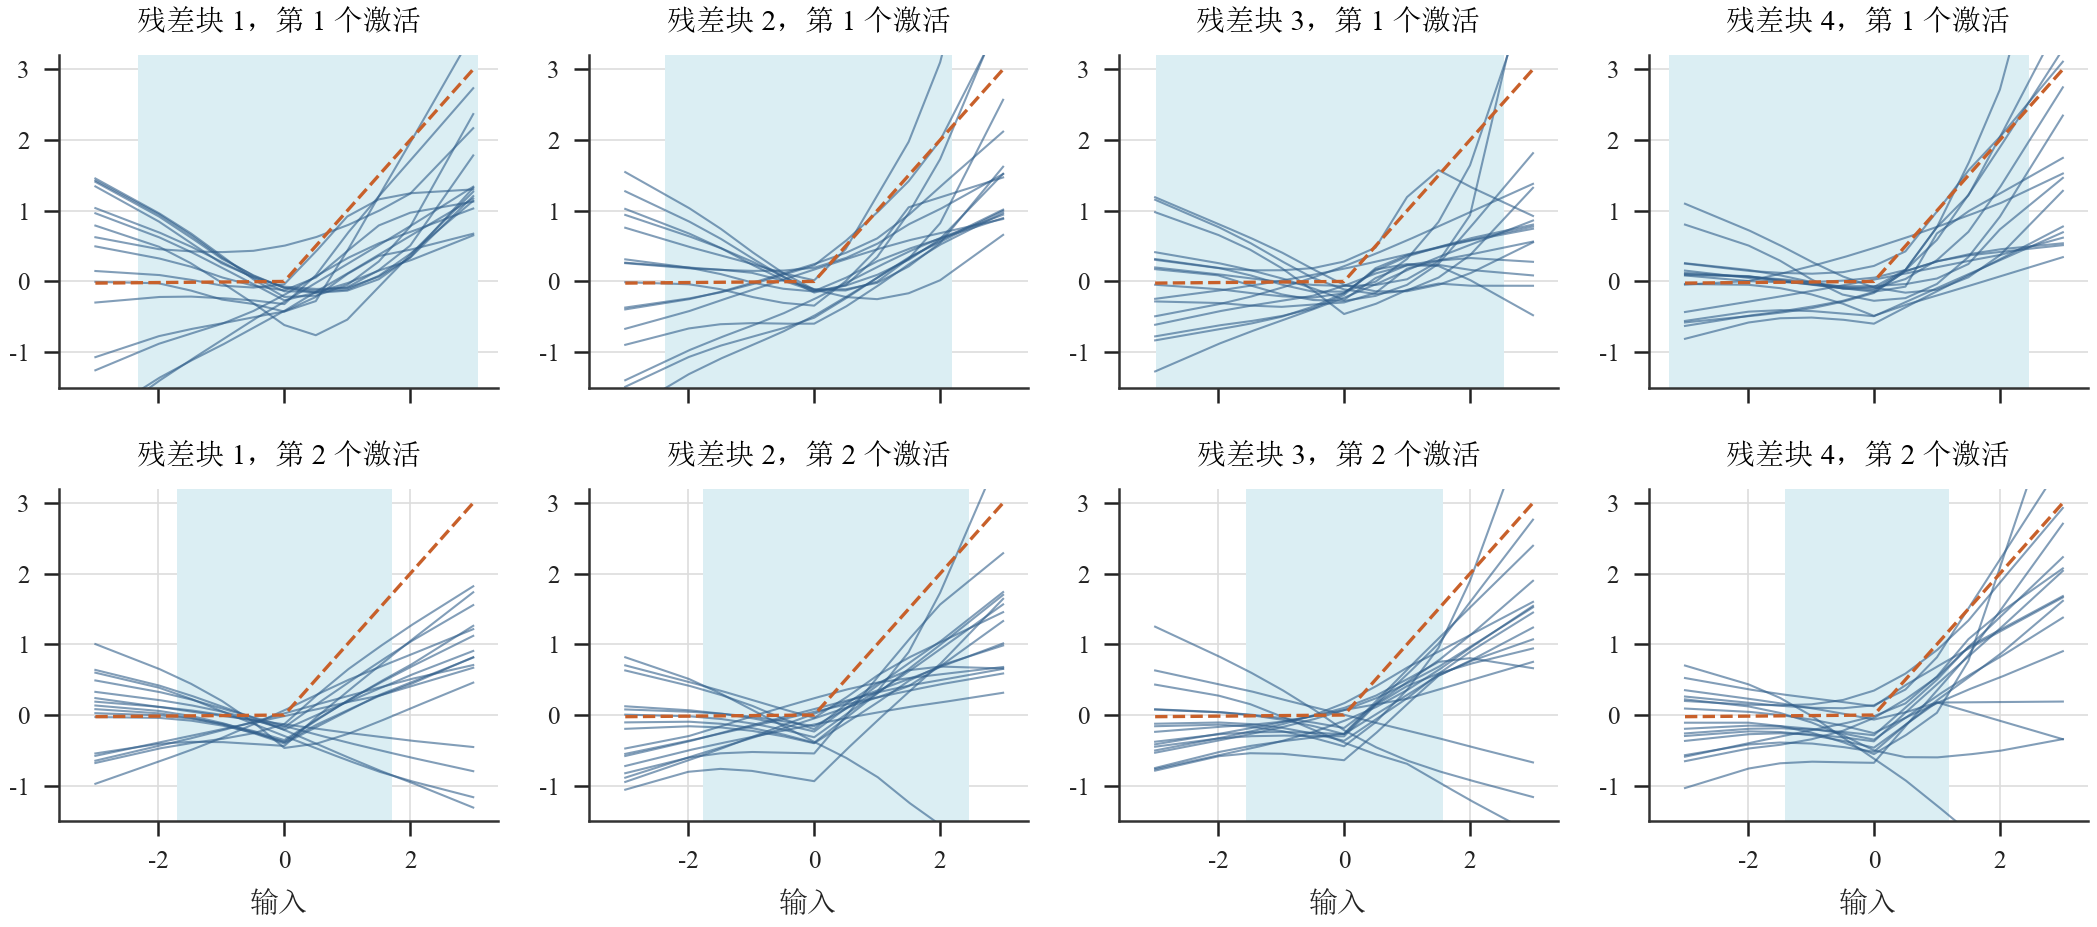
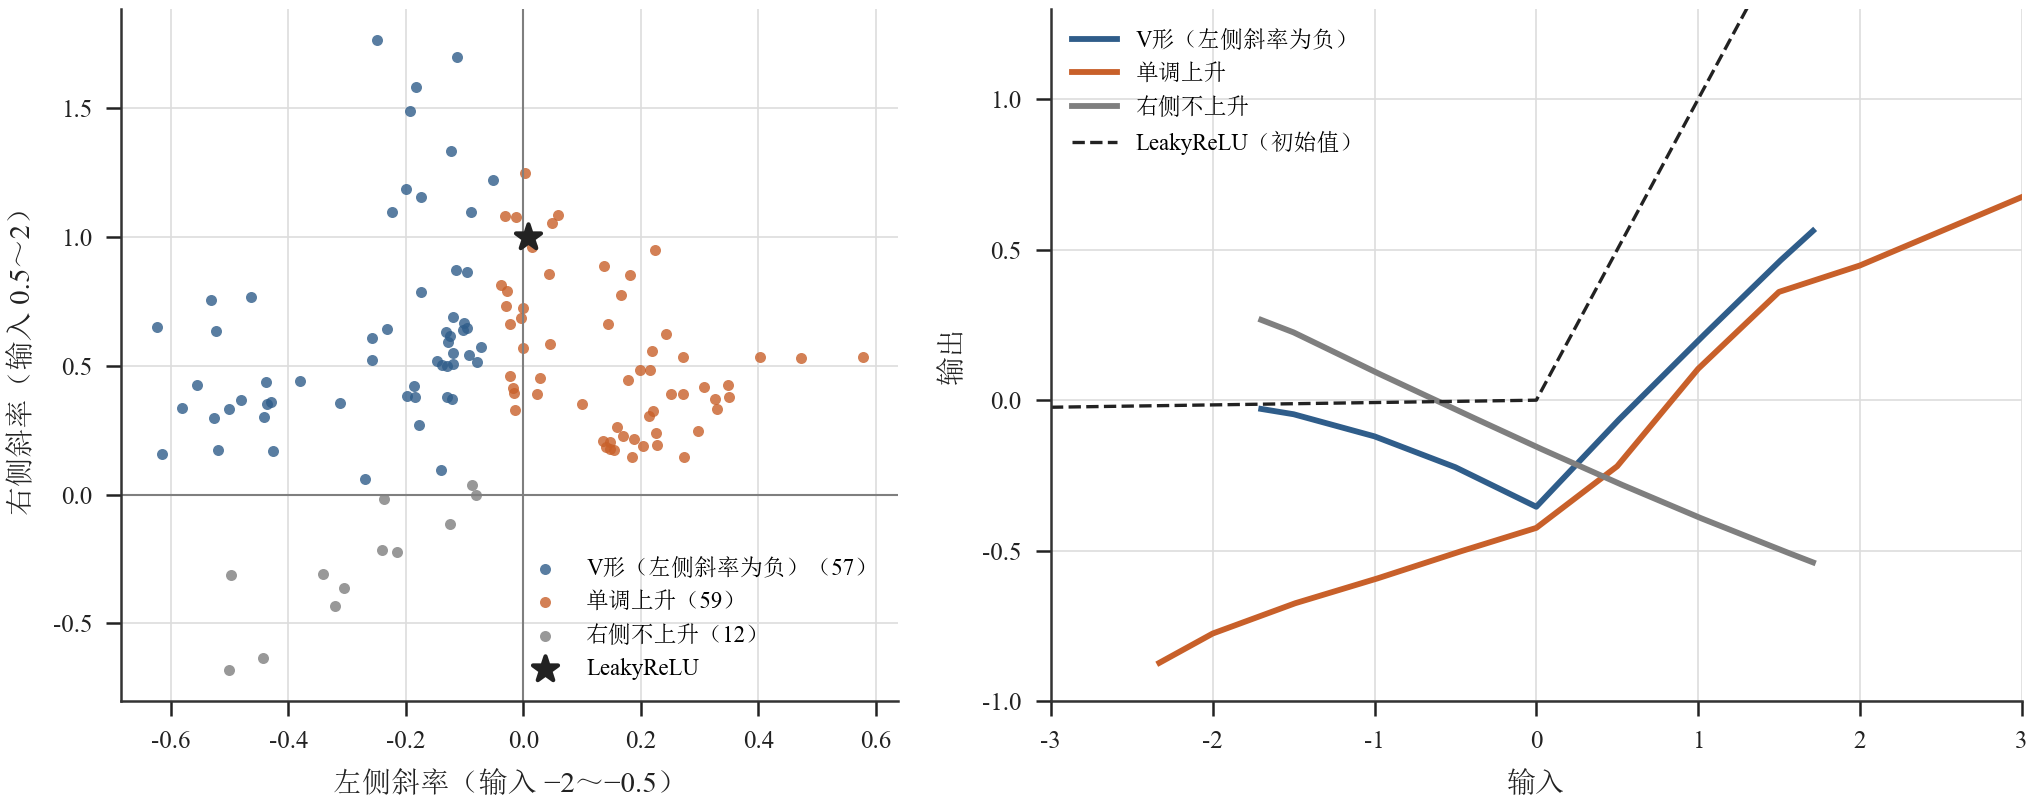
Shallow decoder figure 4: PWL shapes as a left/right slope scatter with one typical curve per class

diff --git a/src/model/shallow_analysis/report_figs.py b/src/model/shallow_analysis/report_figs.py
@@ -95,30 +95,47 @@ def fig_pwl(enc, dec, val, dev):
     for h in hooks:
         h.remove()
     u = torch.linspace(-3, 3, 601, device=dev).view(1, 1, -1, 1)
-    fig, axs = plt.subplots(2, 4, figsize=(7.2, 3.3), dpi=300, sharex=True)
-    left, right = [], []
-    for n, (a, ax) in enumerate(zip(acts, axs.T.flatten())):
+    xs = u.flatten().cpu().numpy()
+    curves, rng, L, R = [], [], [], []
+    for a in acts:
         c = a.a.shape[1]
         y = a(u.expand(1, c, -1, 1)).squeeze().cpu().numpy()          # (c, 601)
-        xs = u.flatten().cpu().numpy()
         lo, hi = np.percentile(torch.cat(ins[id(a)]).numpy(), [1, 99])
-        ax.axvspan(lo, hi, color=S.SHADE_B, lw=0)
-        for k in range(c):
-            ax.plot(xs, y[k], color=S.BLUE, lw=0.5, alpha=0.6)
-        ax.plot(xs, np.where(xs > 0, xs, xs / 128), color=S.ORANGE, lw=0.8, ls='--')
-        ax.set_title(f'残差块 {n // 2 + 1}，第 {n % 2 + 1} 个激活', fontsize=7)
-        ax.set_ylim(-1.5, 3.2)
-        ax.tick_params(labelsize=6)
-        S.finish(ax)
         sl = np.gradient(y, xs, axis=1)
-        left.append(sl[:, (xs >= -2) & (xs <= -0.5)].mean(1)); right.append(sl[:, (xs >= 0.5) & (xs <= 2)].mean(1))
-    for ax in axs[1]:
-        ax.set_xlabel('输入', fontsize=7)
+        for k in range(c):
+            curves.append(y[k]); rng.append((lo, hi))
+            L.append(sl[k, (xs >= -2) & (xs <= -0.5)].mean()); R.append(sl[k, (xs >= 0.5) & (xs <= 2)].mean())
+    L, R = np.array(L), np.array(R)
+    eps = 0.05
+    cls = np.where(R <= eps, 2, np.where(L < -eps, 0, 1))         # 0: V shape, 1: monotone rising, 2: falling right side
+    names = ['V形（左侧斜率为负）', '单调上升', '右侧不上升']
+    cols = [S.BLUE, S.ORANGE, S.GRAY]
+    fig, (ax, bx) = plt.subplots(1, 2, figsize=(7.0, 2.9), dpi=300, gridspec_kw={'width_ratios': [1, 1.25]})
+    for q in range(3):
+        m = cls == q
+        ax.scatter(L[m], R[m], s=7, color=cols[q], alpha=0.8, lw=0, label=f'{names[q]}（{m.sum()}）')
+    ax.scatter([1 / 128], [1.0], s=40, marker='*', color=S.INK, zorder=5, label='LeakyReLU')
+    ax.axhline(0, color=S.GRAY, lw=0.5); ax.axvline(0, color=S.GRAY, lw=0.5)
+    ax.set_xlabel('左侧斜率（输入 −2～−0.5）', fontsize=7); ax.set_ylabel('右侧斜率（输入 0.5～2）', fontsize=7)
+    ax.tick_params(labelsize=6); ax.legend(fontsize=5.5, loc='lower right')
+    S.finish(ax)
+    for q in range(3):
+        idx = np.nonzero(cls == q)[0]
+        if len(idx) < 5:
+            continue
+        med = np.array([np.median(L[idx]), np.median(R[idx])])
+        k = idx[np.argmin(np.hypot(L[idx] - med[0], R[idx] - med[1]))]   # channel closest to the class median
+        lo, hi = rng[k]; m = (xs >= lo) & (xs <= hi)
+        bx.plot(xs[m], curves[k][m], color=cols[q], lw=1.4, label=names[q])
+    bx.plot(xs, np.where(xs > 0, xs, xs / 128), color=S.INK, lw=0.8, ls='--', label='LeakyReLU（初始值）')
+    bx.set_xlim(-3, 3); bx.set_ylim(-1.0, 1.3)
+    bx.set_xlabel('输入', fontsize=7); bx.set_ylabel('输出', fontsize=7)
+    bx.tick_params(labelsize=6); bx.legend(fontsize=5.5, loc='upper left')
+    S.finish(bx)
     fig.tight_layout(); fig.savefig(OUT / 'pwl_final.png', bbox_inches='tight', pad_inches=0.03)
-    L, R = np.concatenate(left), np.concatenate(right)
     print(f'PWL: {len(L)} channels, left slope (-2..-0.5) median {np.median(L):.2f}, right (0.5..2) {np.median(R):.2f}, '
-          f'negative left slope {np.mean(L < 0) * 100:.0f} %')
-
+          f'negative left slope {np.mean(L < 0) * 100:.0f} %; classes ' +
+          ', '.join(f'{names[q]} {int((cls == q).sum())}' for q in range(3)))
 
 @torch.no_grad()
 def fig_noise(enc, dec, val, dev):

diff --git a/report/notes/shallow_decoder_design.md b/report/notes/shallow_decoder_design.md
@@ -65,11 +65,11 @@ DeepJSCC-Q的情况不同。64QAM星座约束要求编码器输出均匀使用64
 
 ### 3.3 可学习分段线性激活
 
-残差块中的8个激活学到的曲线见图4。多数通道在0附近有一个下凹的拐点，两侧斜率不同，63 %的通道左侧（输入−2～−0.5）斜率为负，右侧（0.5～2）斜率中位数0.46。LeakyReLU左侧斜率只有1/128，表示不了这类形状。
+残差块中8个激活共128个通道，按左侧（输入−2～−0.5）与右侧（0.5～2）的平均斜率分成三类（图4）：57个通道为V形，左侧斜率为负、右侧为正，拐点在0附近；59个通道单调上升，但左侧斜率多为0.1～0.6，远大于LeakyReLU的1/128；12个通道右侧不上升。初始的LeakyReLU对应图中左侧斜率1/128、右侧斜率1的一点，训练后几乎没有通道停在那里，LeakyReLU表示不了这些形状。
 
 ![学到的PWL曲线](figures/shallow_decoder/pwl_final.png)
 
-图4　残差块中8个PWL激活的曲线（每图16个通道）。虚线为初始的LeakyReLU，阴影为10 dB信道下该激活输入的1 %～99 %分位范围。
+图4　残差块中PWL激活学到的形状。左：128个通道的左右两侧平均斜率，星号为初始的LeakyReLU；右：每类中最接近该类中位斜率的一个通道，只画出10 dB信道下其输入的1 %～99 %分位范围。
 
 PWL在硬件上是每通道一张小表加一次乘法，不需要DSP；按"折点纵坐标＋斜率"的形式定点实现时没有可测的量化损失（第4节）。
 
